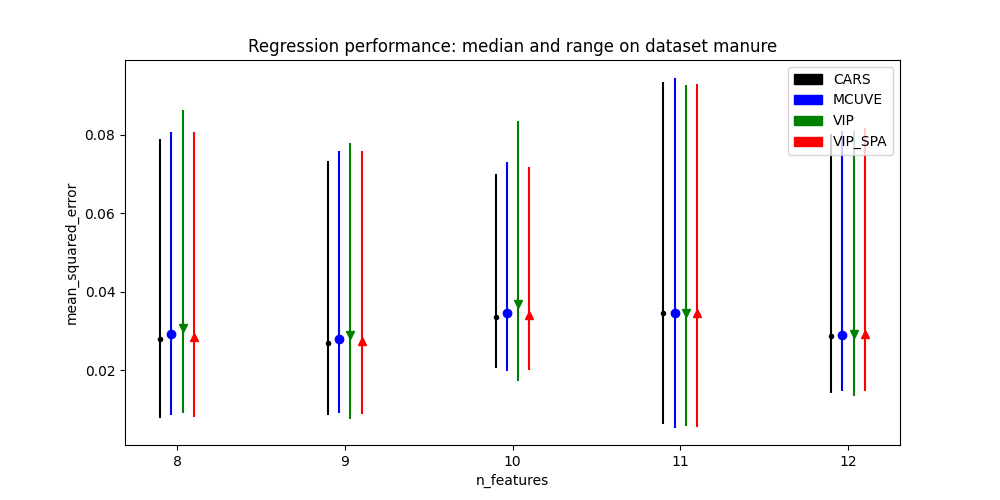
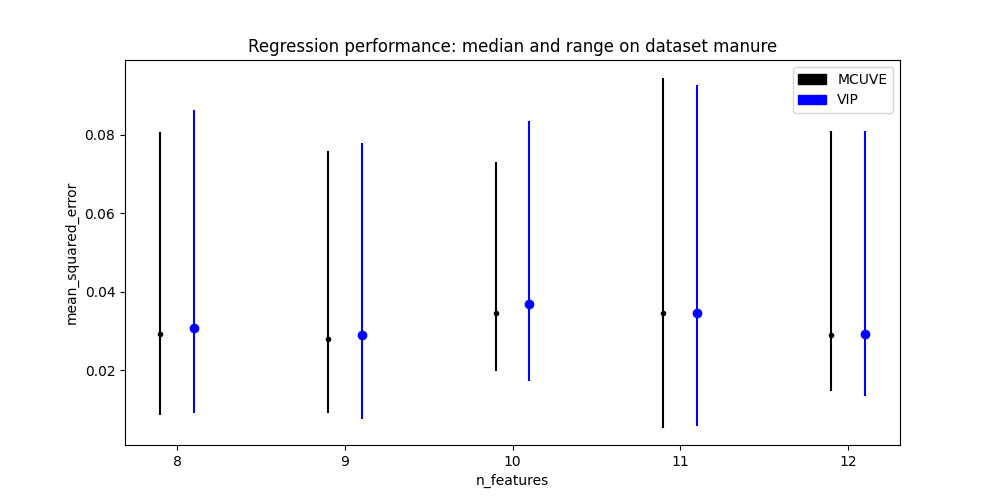
Fixes deng stability score

diff --git a/benchmark/util/_metrics.py b/benchmark/util/_metrics.py
@@ -40,7 +40,7 @@ def stability_score(pod: BenchmarkPOD):
 def _intersection_expectation(n: int, s: int):
     """
         Calculates the expectation value of the size of the intersection of two samples of size s each drawn from the
-        same pool of n unique entities without replacement
+        same pool of n unique entities without replacement. Calculations are using logarithm-tricks
 
         Parameters
         ----------
@@ -74,7 +74,7 @@ def _intersection_expectation(n: int, s: int):
 
 def deng_stability_score(pod: BenchmarkPOD):
     """
-            Calculates a selection stability score for randomized selection methods, according to Deng et al. [1]_.
+            Calculates the selection stability score for randomized selection methods, according to Deng et al. [1]_.
 
             Parameters
             ----------
@@ -93,30 +93,51 @@ def deng_stability_score(pod: BenchmarkPOD):
                    Analyst, 6, 1876-1885, 2015.
 
     """
-    n_wavelengths = pod.get_meta_item("n_wavelengths")
 
-    for method in pod.get_methods():
-        supports = pod.get_item(method, "support")
+    # number of different samples of selected fleatures available
+    r = pod.n_runs
+    for n in pod.n_features:
+        for method in pod.methods:
+            for dataset in pod.datasets:
+                _, n_wavelengths = pod.get_meta(dataset)
+                # retrieve the samples of selected features
+                supports = pod.get_selection_data(method=method, n_features=n, dataset=dataset).to_numpy()
+                supports = np.reshape(supports, newshape=(r, n))
 
-        r = len(supports)
-        pairwise_sim = np.empty(int((r**2 - r) / 2), dtype='float')
+                # Calculate
+                pairwise_sim = np.empty(int((r ** 2 - r) / 2), dtype='float')
 
-        sample_size = supports[0].shape[0]
-        e = _intersection_expectation(n_wavelengths, sample_size)
-        for i, (x, y) in enumerate(np.triu_indices(r)):
-            if x != y:
-                pairwise_sim[i] = (np.intersect1d(supports[x, y]) - e) / (np.sqrt(supports[x].shape[0] * supports[y].shape[0])
-                                                                      - e)
-        score = np.sum(pairwise_sim) * (2 / (r*(r - 1)))
+                e = _intersection_expectation(n_wavelengths, n)
+                dim0, dim1 = np.triu_indices(r)
+                counter = 0
+                for i in range(dim0.size):
+                    if dim0[i] != dim1[i]:
+                        pairwise_sim[counter] = (np.intersect1d(supports[dim0[i]], supports[dim1[i]]).size - e) / (n - e)
+                        counter += 1
+                score = np.sum(pairwise_sim) * (2 / (r * (r - 1)))
 
-        pod.register(method, deng_stability_score=score)
+                pod.register_stability(method=method,
+                                       n_features=n,
+                                       dataset=dataset,
+                                       metric_name='deng_stability_score',
+                                       value=score)
+
+
+
+def _register_stats(function, grouped):
+    function(value=grouped.mean(), item='mean')
+    function(value=grouped.std(), item='std')
+    function(value=grouped.min(), item='min')
+    function(value=grouped.max(), item='max')
+    function(value=grouped.median(), item='median')
 
 
 def mean_std_statistics(pod: BenchmarkPOD):
 
     """
 
-        Calculates mean and standard deviation for all methods and all metrics contained the BenchmarkPOD object
+        Calculates mean and standard deviation for all methods, metrics, datasets, feature numbers, runtime measurements
+        contained the BenchmarkPOD object
 
         Parameters
         ----------
@@ -127,19 +148,11 @@ def mean_std_statistics(pod: BenchmarkPOD):
     # register means, stds, mins, max and medians for regression
     samples = pod.get_regression_data(item='samples')
     grouped = samples.groupby(axis=1, level=['dataset', 'n_features', 'regression_metric'], sort=False)
-    pod.register_regression(value=grouped.mean(), item='mean')
-    pod.register_regression(value=grouped.std(), item='std')
-    pod.register_regression(value=grouped.min(), item='min')
-    pod.register_regression(value=grouped.max(), item='max')
-    pod.register_regression(value=grouped.median(), item='median')
+    _register_stats(pod.register_regression, grouped)
 
     # register means, stds, mins, max and medians for runtime measurements
     samples = pod.get_measurement_data(item='samples')
     grouped = samples.groupby(axis=1, level=['dataset', 'n_features'], sort=False)
-    pod.register_measurement(value=grouped.mean(), item='mean')
-    pod.register_measurement(value=grouped.std(), item='std')
-    pod.register_measurement(value=grouped.min(), item='min')
-    pod.register_measurement(value=grouped.max(), item='max')
-    pod.register_measurement(value=grouped.median(), item='median')
+    _register_stats(pod.register_measurement, grouped)
 
 

diff --git a/examples/benchmarking.py b/examples/benchmarking.py
@@ -8,7 +8,7 @@
 """
 import numpy as np
 from auswahl import MCUVE, CARS, VIP, IPLS, VIP_SPA, VISSA, RandomFrog
-from benchmark import benchmark, stability_score, plot_score_stability_box, plot_exec_time, plot_performance_series
+from benchmark import *
 
 from sklearn.cross_decomposition import PLSRegression
 from sklearn.metrics import mean_squared_error, mean_absolute_error
@@ -31,8 +31,8 @@ pod = benchmark([(x, y, 'manure'),
                 train_size=0.9,
                 test_model=PLSRegression(n_components=1),
                 reg_metrics=[mean_squared_error, mean_absolute_error],
-                stab_metrics=[stability_score],
-                methods=[cars, vip, mcuve, vip_spa],
+                stab_metrics=[stability_score, deng_stability_score],
+                methods=[vip, mcuve, cars],
                 random_state=1111111,
                 verbose=True)
 
@@ -46,5 +46,11 @@ pod = benchmark([(x, y, 'manure'),
 
 #plot_exec_time(pod, dataset='manure')
 #print(pod.get_regression_data(dataset='manure', method='VIP', reg_metric='mean_squared_error', item='samples'))
-plot_performance_series(pod, dataset='manure', regression_metric='mean_squared_error', item='median', save_path="./performance.png")
+#plot_performance_series(pod, dataset='manure', regression_metric='mean_squared_error', item='median', save_path="./performance.png")
+
+plot_score_stability_box(pod,
+                         dataset='manure',
+                         n_features=10,
+                         stability_metric='deng_stability_score',
+                         regression_metric='mean_squared_error')
 

diff --git a/benchmark/util/_data_handling.py b/benchmark/util/_data_handling.py
@@ -91,6 +91,22 @@ class BenchmarkPOD:
         for x, y, name in dataset_meta:
             self.meta[name] = x.shape
 
+    def get_meta(self, dataset):
+        """
+                    Provides meta information for each dataset
+        parameters
+        ----------
+        dataset: str
+            name of the dataset, whose meta information is requested
+
+        returns
+        -------
+        tuple
+            (n_samples, n_wavelengths)
+
+        """
+        return self.meta[dataset]
+
     def _string_conversion(self, item):
         if type(item) == list:
             return [str(i) for i in item]

diff --git a/benchmark/util/_plotting.py b/benchmark/util/_plotting.py
@@ -225,3 +225,16 @@ def plot_performance_series(pod: BenchmarkPOD,
                    save_path=save_path
                    )
 
+
+def plot_selection_behaviour(pod: BenchmarkPOD,
+                            dataset: str,
+                            methods: Union[str, List[str]] = None,
+                            n_features: Union[int, List[int]] = None,
+                            save_path: str = None):
+    """
+
+        Visualize in some way the selected variables and agreement of approaches
+
+    """
+    ...
+

diff --git a/benchmark/__init__.py b/benchmark/__init__.py
@@ -4,6 +4,7 @@ from .util._plotting import plot_score_stability_box, plot_performance_series, p
 
 __all__ = ['benchmark',
            'stability_score',
+           'deng_stability_score',
            'plot_score_stability_box',
            'plot_performance_series',
            'plot_exec_time']

diff --git a/doc/user_guide.rst b/doc/user_guide.rst
@@ -19,3 +19,12 @@ Wavelength Interval Selection
     :maxdepth: 2
 
     interval_selection.rst
+
+Benchmarking
+------------
+
+.. toctree::
+    :numbered:
+    :maxdepth: 2
+
+    benchmarking.rst
